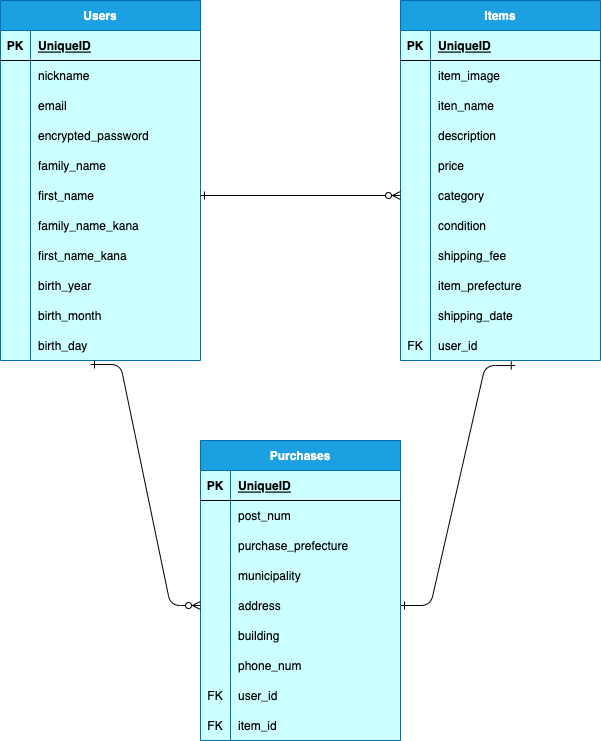
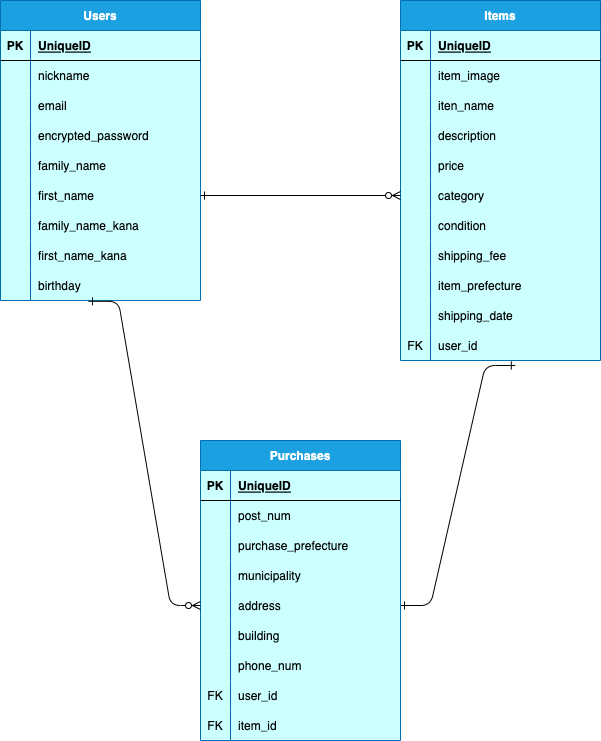
READ ME修正２

Changed region(s): [[0.0, 0.3725, 0.3594, 0.6208], [0.2396, 0.6208, 0.2696, 0.7449], [0.2696, 0.7449, 0.2995, 0.807]]

diff --git a/README.md b/README.md
@@ -10,9 +10,7 @@
 | first_name         | string  | null: false               |
 | family_name_kana   | string  | null: false               |
 | first_name_kana    | string  | null: false               |
-| birth_year         | integer | null: false               |
-| birth_month        | integer | null: false               |
-| birth_day          | integer | null: false               |
+| birthday           | string  | null: false               |
 ### Association
 has_many :items
 has_many :purchases
